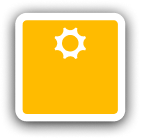
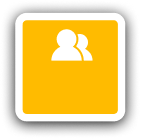
Add files via upload

Changed region(s): [[0.3404, 0.1714, 0.6809, 0.4571]]

diff --git a/index.html b/index.html
@@ -84,7 +84,7 @@ justify-content: center;
 width: calc(110% - 60px);
 max-width: 380px;
 height: 1030px;
-margin: -877px auto 0px auto;
+margin: -879px auto -10px auto;
 position: relative;
 z-index: 300;
 transition: opacity 0.2s ease;